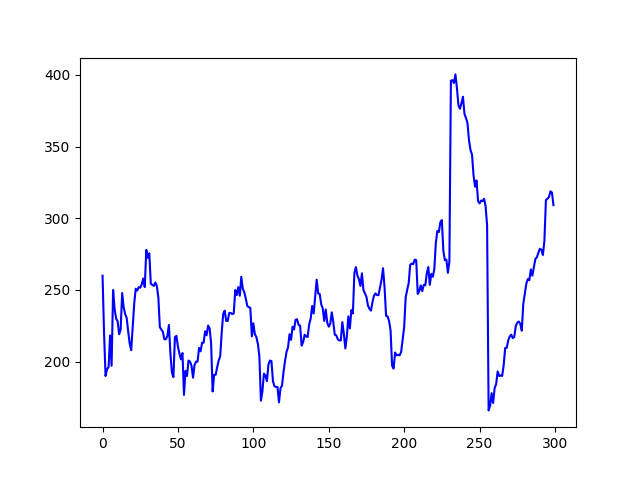
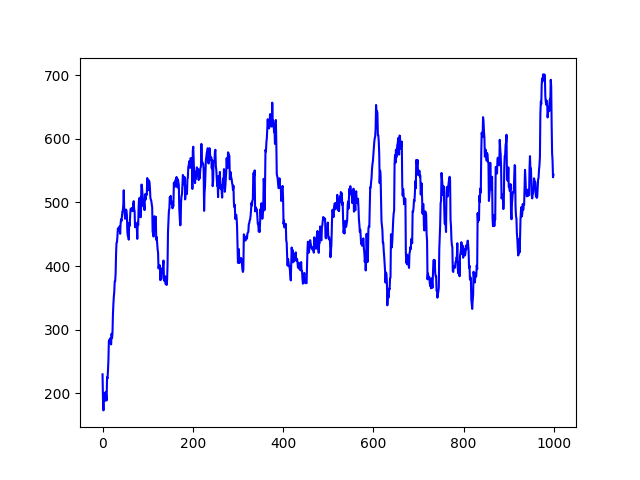
Parameter tweaks

diff --git a/Deep_Q_Network.py b/Deep_Q_Network.py
@@ -15,7 +15,7 @@ t = utils.helper.TorchHelper()
 # constants
 DEVICE = t.device
 OBS_N = 128                 # State space size
-ACT_N = 4                   # Action space size
+ACT_N = 9                   # Action space size
 EPSILON = 1.0               # Starting epsilon
 STEPS_MAX = 10000           # Gradually reduce epsilon over these many steps
 EPSILON_END = 0.1           # At the end, keep epsilon at this value
@@ -25,7 +25,7 @@ LEARNING_RATE = 5e-4        # Learning rate for Adam optimizer
 TRAIN_AFTER_EPISODES = 10   # Just collect episodes for these many episodes
 TRAIN_EPOCHS = 25           # Train for these many epochs every time
 BUFSIZE = 10000             # Replay buffer size
-EPISODES = 300              # Total number of episodes to learn over
+EPISODES = 1000              # Total number of episodes to learn over
 TEST_EPISODES = 10          # Test episodes
 
 # create environment
